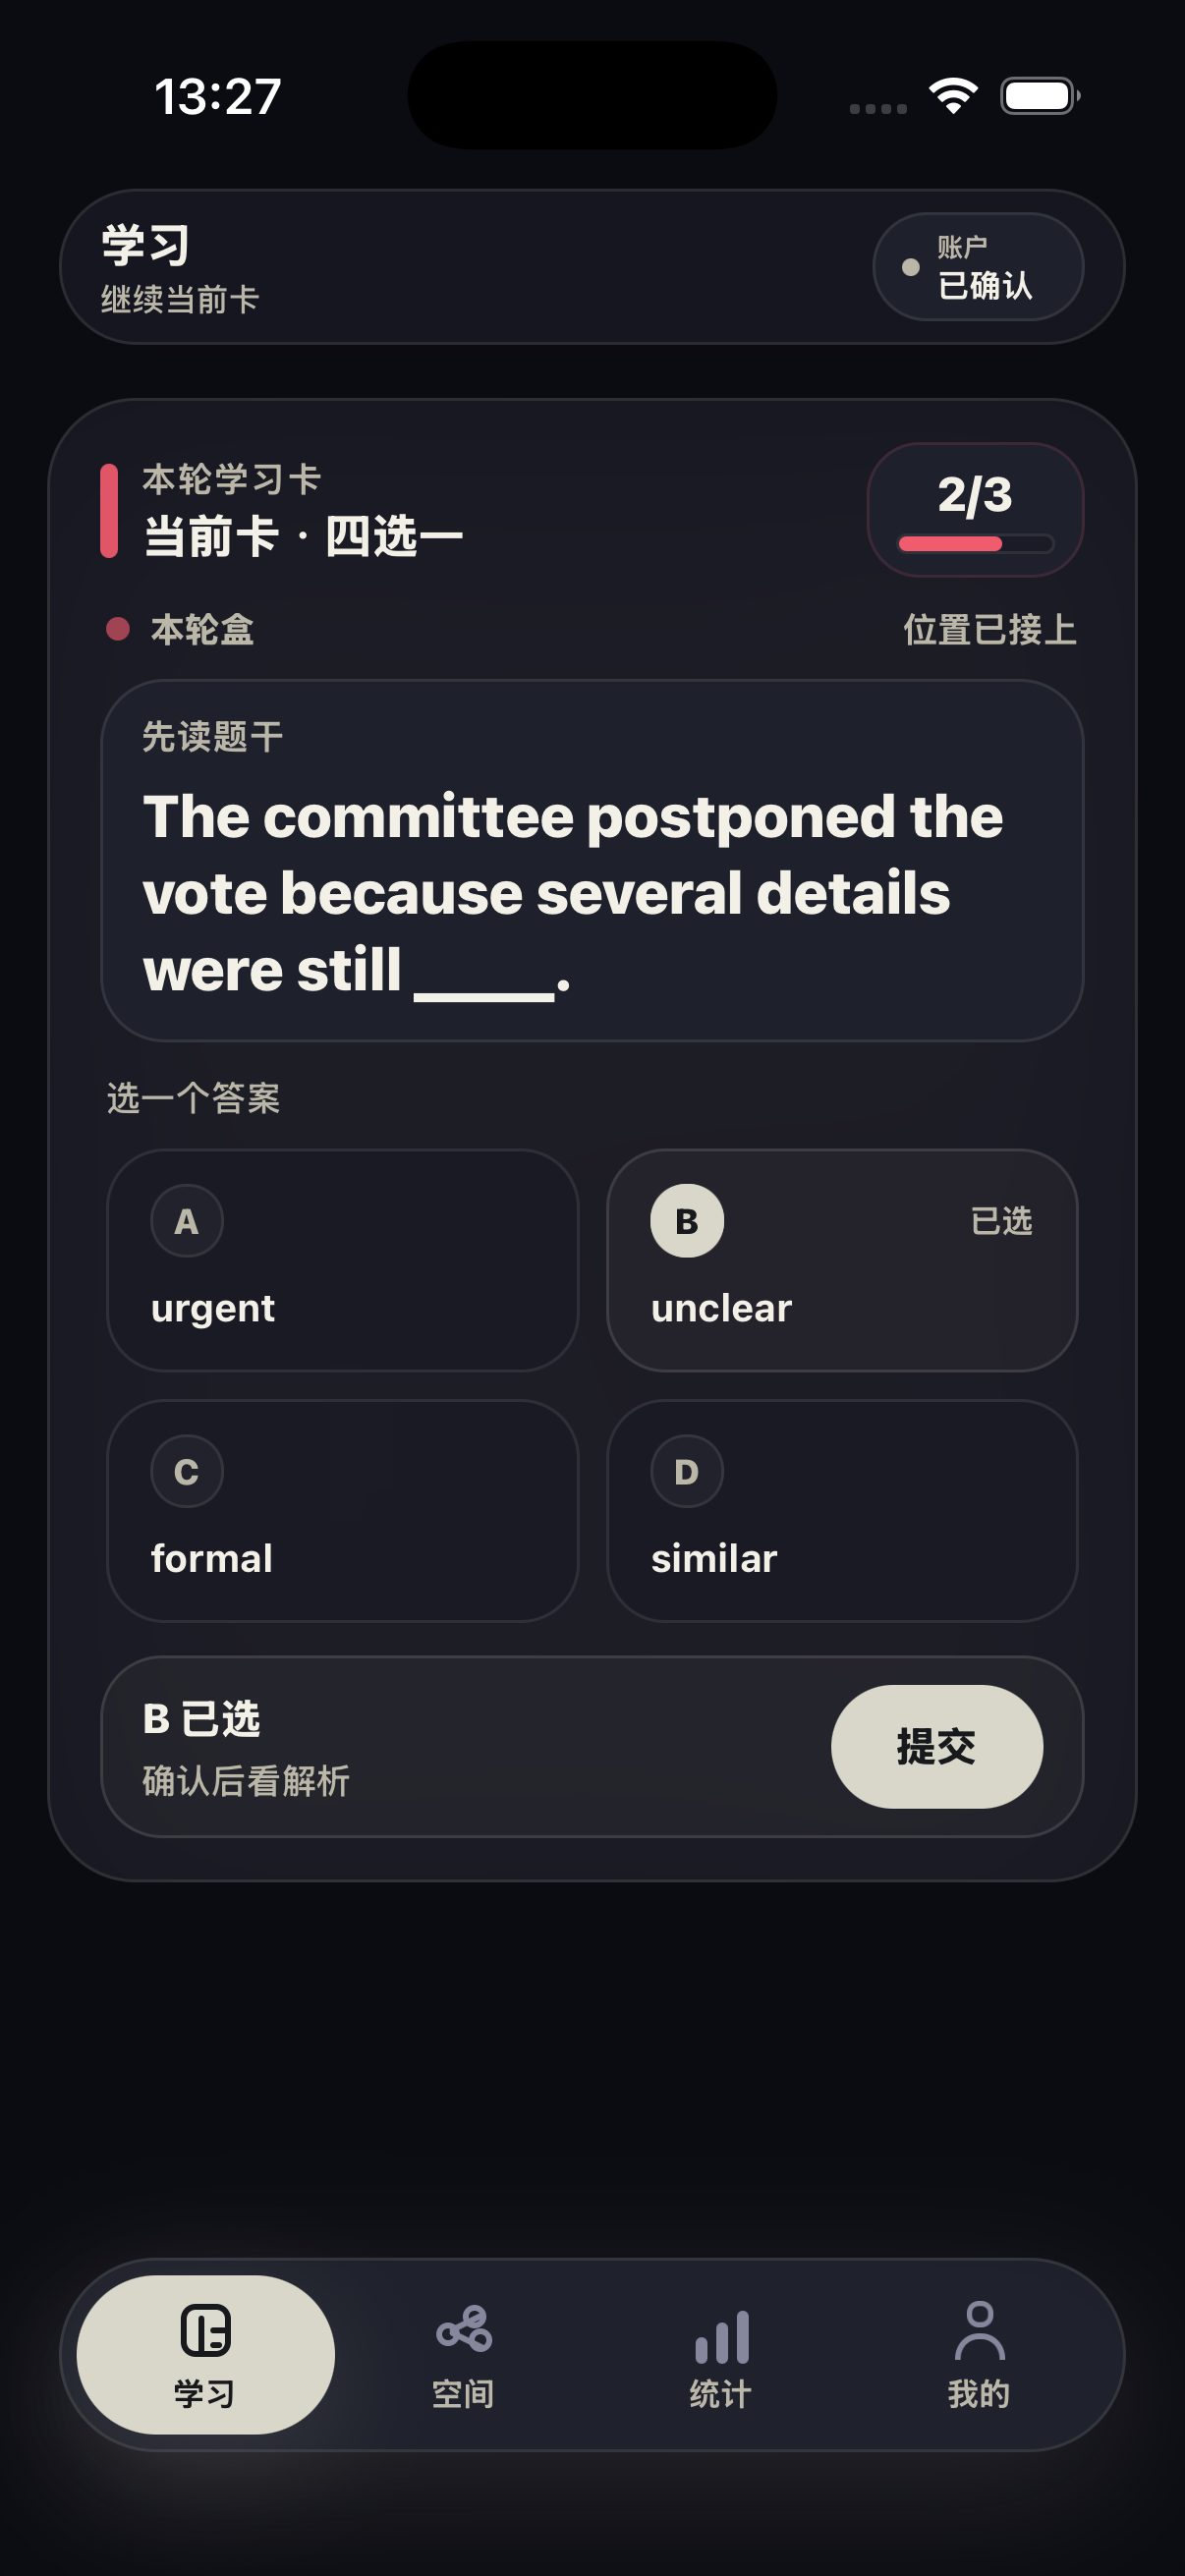
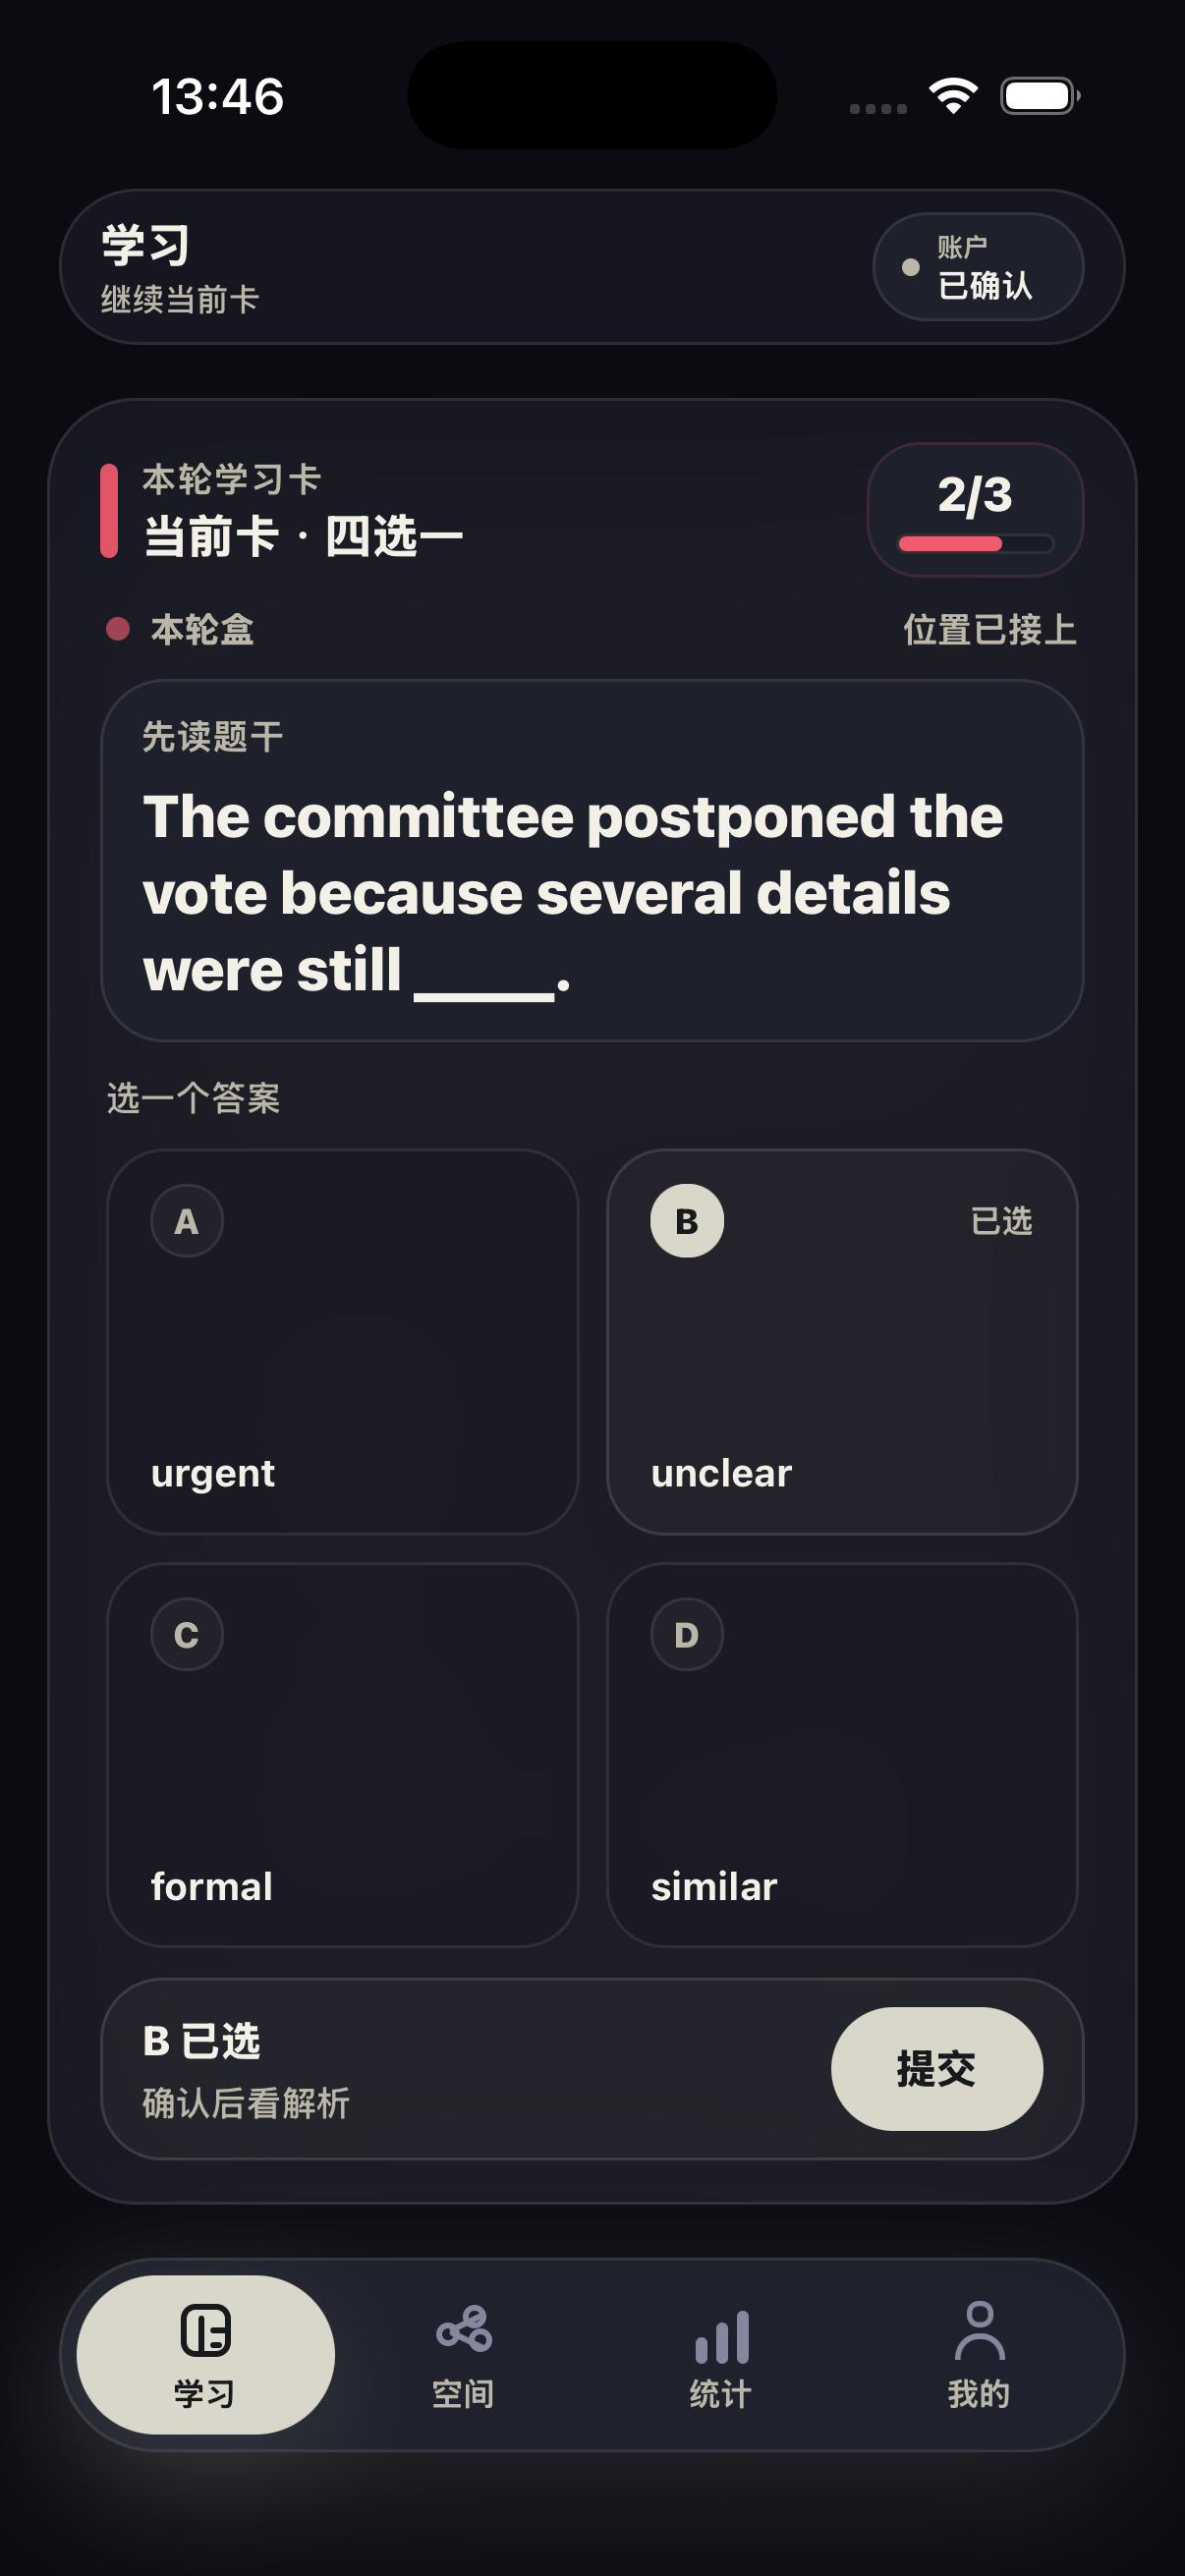
Expand learning practice work area

diff --git a/apps/mobile/src/learning/LearningSurface.tsx b/apps/mobile/src/learning/LearningSurface.tsx
@@ -419,6 +419,7 @@ export function LearningSurface({
         style={[
           styles.studyCard,
           styles.studyCardOneScreen,
+          currentResult === null ? styles.studyCardWorkArea : null,
           styles.glassCard,
           {
             backgroundColor: palette.panel,
@@ -646,8 +647,10 @@ export function LearningSurface({
           <View
             style={[
               styles.oneScreenDock,
+              styles.oneScreenDockAnchored,
               isLockInteraction ? styles.oneScreenDockCompact : null,
             ]}
+            testID="learning-action-dock"
           >
             {shouldShowUtilityDock ? (
               <>
@@ -918,8 +921,11 @@ function InteractionBody({
       );
     case 'multiple_choice':
       return (
-        <View style={styles.interactionBody}>
-          <View style={styles.optionGrid}>
+        <View style={[styles.interactionBody, styles.choiceInteractionBody]}>
+          <View
+            style={[styles.optionGrid, styles.optionGridWorkArea]}
+            testID="learning-option-grid"
+          >
             {card.options.map(option => {
               const isSelected = cardState.selectedOptionId === option.id;
               const isCorrect =
@@ -2306,6 +2312,9 @@ const styles = StyleSheet.create({
     paddingHorizontal: 17,
     paddingVertical: 14,
   },
+  studyCardWorkArea: {
+    flexGrow: 1,
+  },
   cardAddressShelf: {
     alignItems: 'center',
     flexDirection: 'row',
@@ -2499,6 +2508,7 @@ const styles = StyleSheet.create({
     gap: 12,
   },
   interactionCardOneScreen: {
+    flexGrow: 1,
     flexShrink: 1,
     gap: 9,
     paddingHorizontal: 2,
@@ -2530,6 +2540,9 @@ const styles = StyleSheet.create({
   },
   interactionBody: {
     gap: 8,
+  },
+  choiceInteractionBody: {
+    flexGrow: 1,
   },
   revealPanel: {
     borderWidth: 1,
@@ -2571,6 +2584,10 @@ const styles = StyleSheet.create({
     flexWrap: 'wrap',
     gap: 9,
   },
+  optionGridWorkArea: {
+    alignContent: 'stretch',
+    flexGrow: 1,
+  },
   optionCard: {
     borderWidth: 1,
     borderRadius: 20,
@@ -2584,6 +2601,7 @@ const styles = StyleSheet.create({
     paddingHorizontal: 14,
     paddingVertical: 11,
     position: 'relative',
+    justifyContent: 'space-between',
   },
   optionCardSelected: {
     shadowOffset: { width: 0, height: 8 },
@@ -2812,6 +2830,9 @@ const styles = StyleSheet.create({
   oneScreenDock: {
     gap: 7,
     marginTop: 1,
+  },
+  oneScreenDockAnchored: {
+    marginTop: 'auto',
   },
   oneScreenDockCompact: {
     gap: 0,

diff --git a/apps/mobile/__tests__/LearningSurface.test.tsx b/apps/mobile/__tests__/LearningSurface.test.tsx
@@ -3,6 +3,7 @@
  */
 
 import React from 'react';
+import { StyleSheet } from 'react-native';
 import ReactTestRenderer from 'react-test-renderer';
 
 import {
@@ -191,6 +192,21 @@ test('multiple choice submit is a compact action dock tied to selection state', 
   expect(
     tree!.root.findByProps({ testID: 'learning-submit-action-dock' }),
   ).toBeTruthy();
+  expect(
+    StyleSheet.flatten(
+      tree!.root.findByProps({ testID: 'learning-current-card' }).props.style,
+    ).flexGrow,
+  ).toBe(1);
+  expect(
+    StyleSheet.flatten(
+      tree!.root.findByProps({ testID: 'learning-action-dock' }).props.style,
+    ).marginTop,
+  ).toBe('auto');
+  const optionGridStyle = StyleSheet.flatten(
+    tree!.root.findByProps({ testID: 'learning-option-grid' }).props.style,
+  );
+  expect(optionGridStyle.flexGrow).toBe(1);
+  expect(optionGridStyle.alignContent).toBe('stretch');
   expect(
     tree!.root.findByProps({ testID: 'learning-submit-button' }).props.disabled,
   ).toBe(true);

diff --git a/docs/agent-runs/2026-07-06-learning-work-area-grid.md b/docs/agent-runs/2026-07-06-learning-work-area-grid.md
@@ -1,0 +1,119 @@
+# 2026-07-06 Learning Work Area Grid
+
+## 当前任务引用的 spec
+
+- `spec/requirement-memory.json`
+- `spec/product-core.json`
+- `spec/action-surface.json`
+- `spec/interactions.json`
+- `spec/knowledge-map.json`
+- `spec/space-operations.json`
+- `spec/visual-language.json`
+- `docs/design/canon.md`
+- `docs/design/design-harness.md`
+- `docs/design/decisions/mobile-core-surface-reset-v1.md`
+- `docs/design/mocks/mobile-core-surface-reset-v1.html`
+- `docs/design/mapping/mobile-core-surface-reset-implementation-map-v1.md`
+- `docs/design/interaction-motion/learning-core-interactions-v1.md`
+- `docs/design/interaction-motion/learning-card-rhythm-v1.md`
+- `docs/design/single-card-ux-contract.md`
+- `spec/runtime-boundaries.json`
+- `spec/repo-delivery-contract.json`
+- `spec/agent-run-record.json`
+- `spec/evals.json`
+
+## Product Truth
+
+- Learning is the primary guided single-card flow for CET preparation.
+- The current card object, its answer operation, and its confirmation action should form one app-like work area.
+- Space continuity remains a light secondary clue and should not turn the Learning screen into a management page.
+- The main task must remain inside one phone screen without vertical scrolling or visible internal metadata.
+
+## Implementation Hypothesis
+
+- After the Learning practice copy cleanup, the card still read as a compact floating block on tall phones.
+- Expanding the current-card object to fill the available work area should make the screen feel like an app surface, not a short web card.
+- Expanding the multiple-choice option grid into the remaining middle space should make the existing answer operation the main touch target instead of leaving dead space.
+- Anchoring the submit dock to the bottom of the current card should preserve the one-screen flow: current card -> large answer choices -> bottom confirmation.
+
+## 变更摘要
+
+- `apps/mobile/src/learning/LearningSurface.tsx`
+  - Adds `studyCardWorkArea` so the unresolved Learning card grows into the available phone work area.
+  - Anchors the unresolved action dock with `oneScreenDockAnchored`.
+  - Adds `learning-action-dock` and `learning-option-grid` test anchors.
+  - Expands the multiple-choice interaction area and option grid with `choiceInteractionBody` and `optionGridWorkArea`.
+  - Gives option cards `justifyContent: space-between` so the larger touch targets read as structured choices.
+- `apps/mobile/__tests__/LearningSurface.test.tsx`
+  - Locks the current-card work-area growth, bottom action dock anchoring, and stretchable option grid.
+- Real screenshots refreshed:
+  - `docs/design/app-screenshots/current-real-app/learning.png`
+  - `docs/design/app-screenshots/current-real-app/dark/learning.png`
+
+## 真实截图
+
+- Light refreshed: `learning.png`.
+- Dark refreshed: `dark/learning.png`.
+- Both refreshed screenshots are 1206 x 2622 real iPhone 17 Pro simulator captures.
+- Visual inspection confirmed the current Learning card now fills the route work area instead of floating above the tabbar.
+- Visual inspection confirmed the multiple-choice options now act as a large 2x2 touch grid, with the submit dock attached to the bottom of the card.
+
+## 验证
+
+- `npm exec prettier -- --write src/learning/LearningSurface.tsx __tests__/LearningSurface.test.tsx` from `apps/mobile` -> passed.
+- `npm test -- --runInBand --watchAll=false __tests__/LearningSurface.test.tsx --testNamePattern="multiple choice submit is a compact action dock tied to selection state"` from `apps/mobile` -> passed; metadata leak pretest passed.
+- `npm test -- --runInBand --watchAll=false __tests__/App.test.tsx --testNamePattern="keeps phone primary surfaces inside one-screen app panels|can unlock the learning flow after fake sms verification"` from `apps/mobile` -> passed; metadata leak pretest passed.
+- Light `apps/mobile/e2e/maestro/ios-learning-home-screenshot.yaml` on iPhone 17 Pro simulator -> passed and refreshed `learning.png`.
+- Dark `apps/mobile/e2e/maestro/ios-learning-home-screenshot.yaml` on iPhone 17 Pro simulator -> passed and refreshed `dark/learning.png`.
+- `sips -g pixelWidth -g pixelHeight docs/design/app-screenshots/current-real-app/learning.png docs/design/app-screenshots/current-real-app/dark/learning.png` -> passed, both 1206 x 2622.
+- `git diff --check` -> passed.
+- `npm run lint -- --quiet` from `apps/mobile` -> passed.
+- `npm run typecheck` from `apps/mobile` -> passed.
+- `npm test -- --runInBand --watchAll=false` from `apps/mobile` -> passed, 26 suites / 163 tests; expected mocked sync warning logs only.
+- `python3 scripts/validate_maestro_selectors.py` -> passed.
+- `npm test` from `infra/cloudbase/functions/softbook-api` -> passed, 11 tests.
+- `python3 scripts/validate_harness.py --skip-remote-guard` -> passed.
+- `python3 scripts/validate_harness.py` -> passed.
+- `JAVA_HOME=/opt/homebrew/opt/openjdk PATH=/opt/homebrew/opt/openjdk/bin:$PATH maestro --device 9B086605-1D68-40C4-A849-D0DFF42468ED test apps/mobile/e2e/maestro/ios-smoke.yaml` -> passed.
+
+## Design Source And Mapping
+
+- Design source: `docs/design/decisions/mobile-core-surface-reset-v1.md`, `docs/design/mocks/mobile-core-surface-reset-v1.html`, `docs/design/mapping/mobile-core-surface-reset-implementation-map-v1.md`, `docs/design/interaction-motion/learning-core-interactions-v1.md`, `docs/design/interaction-motion/learning-card-rhythm-v1.md`, `docs/design/canon.md`, and `spec/visual-language.json`.
+- Implementation mapping: current card object -> `learning-current-card`; Learning work area -> `studyCardWorkArea`; multiple-choice operation grid -> `learning-option-grid`; bottom confirmation -> `learning-action-dock` and `learning-submit-button`.
+- Interaction/motion source: `docs/design/interaction-motion/learning-card-rhythm-v1.md`. This run preserves the `place -> focus -> support -> resolve -> settle -> continue` rhythm by giving the focused answer operation the middle work area and keeping confirmation attached.
+- Physical-space source: N/A. This run does not alter Space hierarchy, physical operations, favorite, sleep, or box movement semantics.
+- Learning microcopy basis: no visible-copy change. This run changes layout and touch-area structure only.
+
+## Design Review Checklist
+
+- Q1 Law of One / current library: The current library accent remains the only strong accent; this run adds no new accent family or decorative color layer.
+- Q2 focal object / first-read path: The current CET card remains the focal object. First read is card title -> prompt -> large answer grid -> submit dock.
+- Q3 interaction silhouette: The multiple-choice silhouette is preserved as four options plus one submit action; the option cards now occupy the work area instead of a compact row stack.
+- Q4 forbidden design patterns: Final screenshots and metadata scan show no visible metadata, agent, harness, debug, runtime, repo, endpoint, payload, fixture, seed, TODO, raw exception, gradient text, gamification chrome, full-width tabbar, serif, removed self-assess token, or internal product-design terms.
+- Q5 containment or non-applicable reason: Real iPhone 17 Pro light/dark screenshots confirm the current card, prompt, stretched 2x2 option grid, submit dock, and floating tabbar fit without clipped text, overlap, horizontal overflow, or safe-area collision.
+- Q6 surface-specific checks: Learning remains system-sequenced and does not introduce module selection as primary path. Flip self-assess remains exactly two states.
+- AP-22: This checklist is answered before PR delivery with real simulator screenshot evidence.
+- AP-23: This run does not alter flip self-assess; the canonical two-state model remains `有把握` = mint/confident and `再回看` = amber/review.
+- VL-AP-07: Satisfied by this checklist and by refreshed current-real-app Learning screenshots.
+
+## Agent Review
+
+- Reviewer: Codex
+- Review status: passed
+- Blocking findings: none
+- Review summary: The change is scoped to Learning practice layout. It improves the one-screen app work area, preserves scoring and route behavior, passes real simulator screenshot evidence, and keeps the full iOS smoke path green.
+
+## 用户可见影响
+
+- Yes. Learning practice now uses the phone work area as one current-card surface rather than a short floating card.
+- Yes. Multiple-choice options are larger, more touchable, and visually primary.
+- No visible copy, scoring, card content, auth, membership, Space favorite/sleep behavior, Statistics behavior, or sync contract changed.
+
+## Card Make 外部工作区影响
+
+- N/A. This run did not touch `/Users/lenkin/programing/card make`, card candidate content, approvals, imports, or exported payloads.
+
+## 未实现 Gap
+
+- This PR does not claim the full app quality reset is finished.
+- Remaining follow-up should continue across smaller-device containment, tablet screenshots, dynamic type, and cross-surface interaction density.